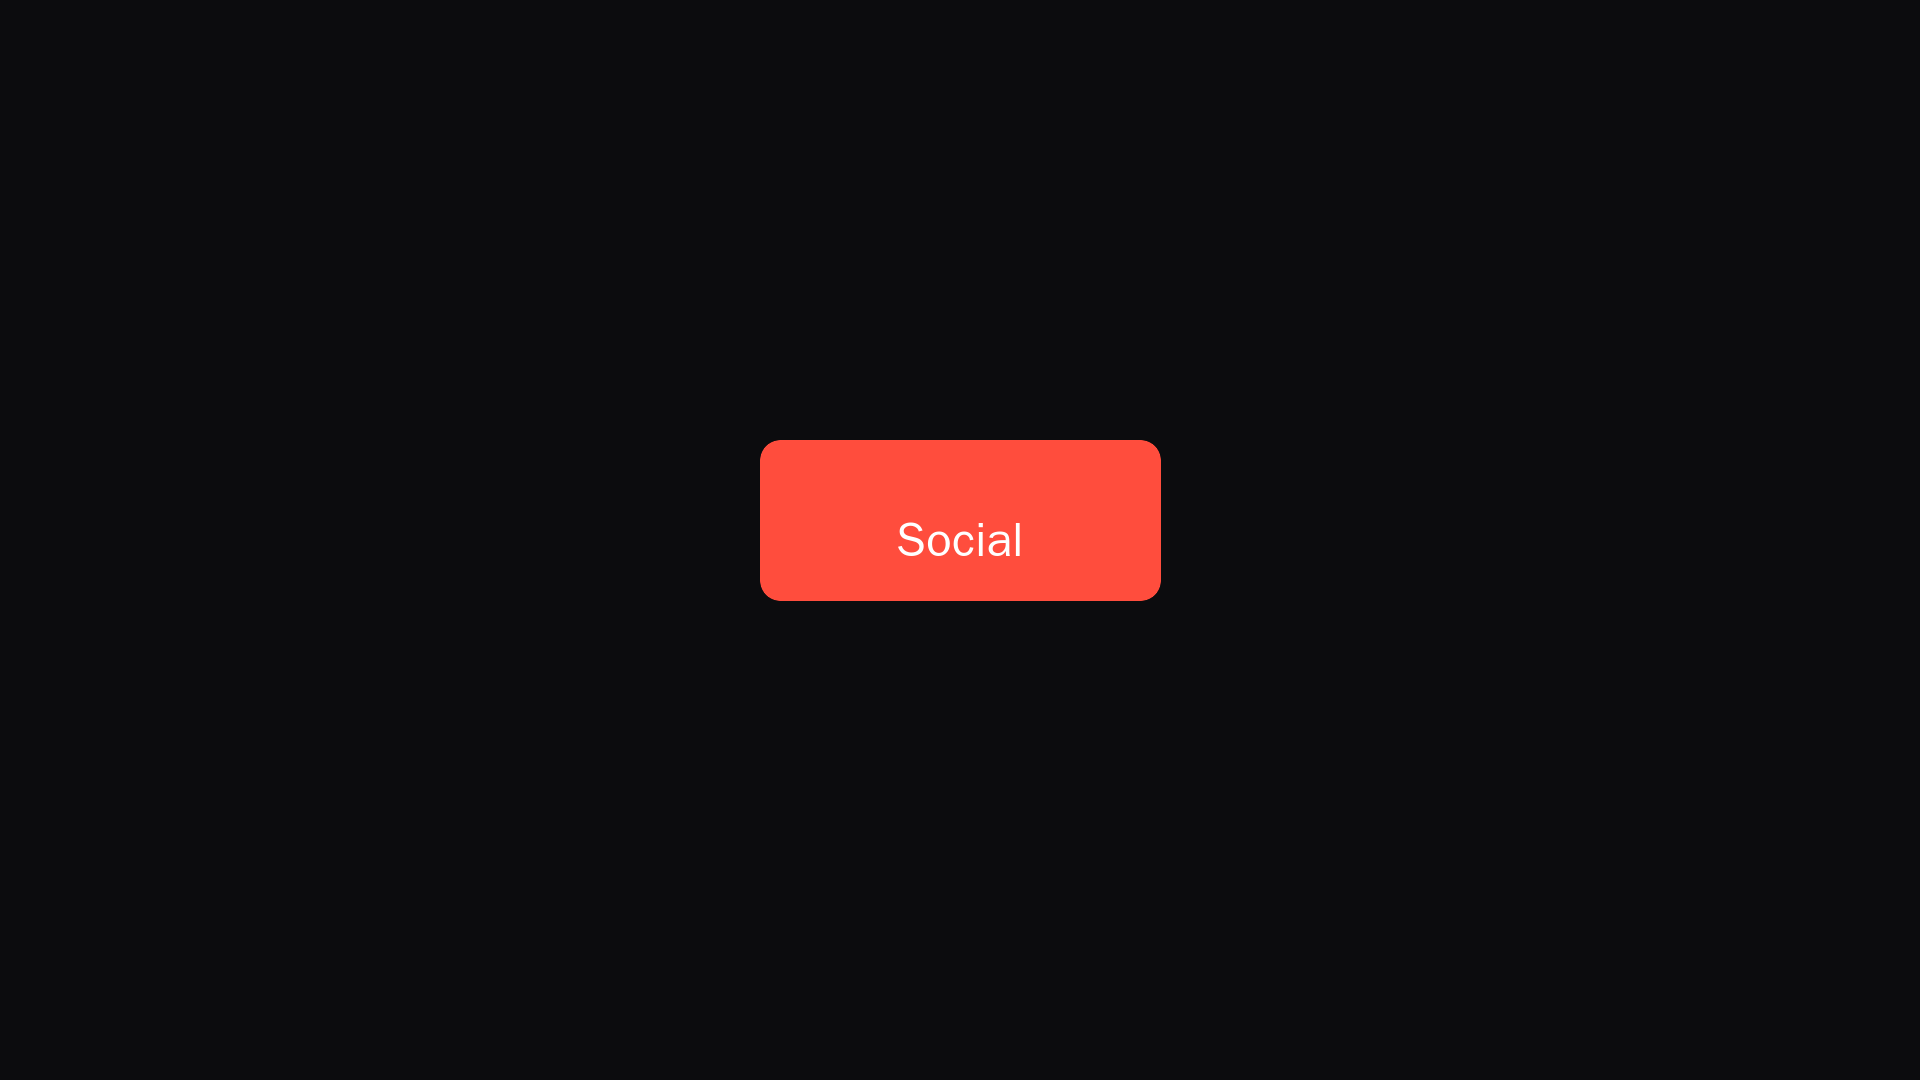
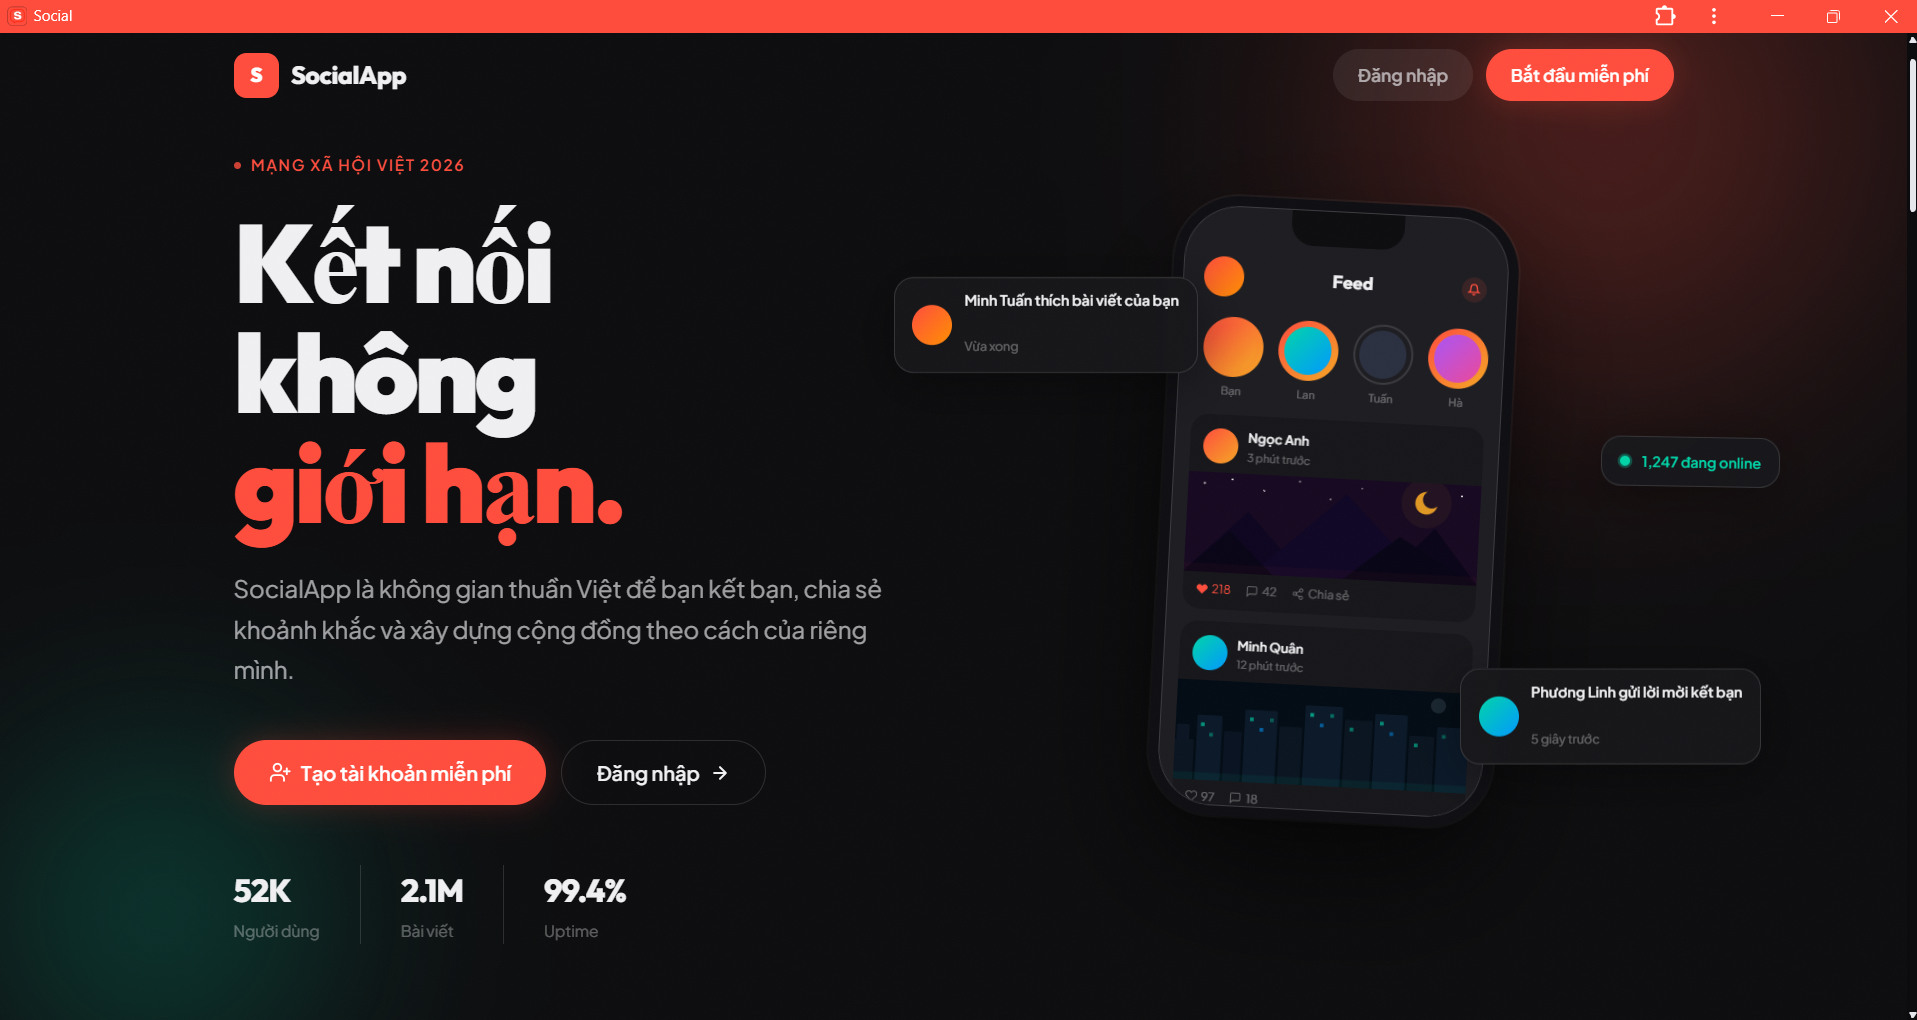
vũ không nói chuyện nghiêm túc là anh đăng hết thông tin lên mạng đấy vũ

diff --git a/src/app/shared/components/call-overlay/call-overlay.component.ts b/src/app/shared/components/call-overlay/call-overlay.component.ts
@@ -106,19 +106,22 @@ export class CallOverlayComponent implements OnInit, OnDestroy {
       }
     });
 
-    effect(() => {
-      const state = this.webRtcService.callState();
+    effect(
+      () => {
+        const state = this.webRtcService.callState();
 
-      if (state === 'connected') {
-        if (!this.durationInterval) {
+        if (state === 'connected') {
+          if (!this.durationInterval) {
+            this.callDuration.set(0);
+            this.startDurationTimer();
+          }
+        } else {
+          this.stopDurationTimer();
           this.callDuration.set(0);
-          this.startDurationTimer();
         }
-      } else {
-        this.stopDurationTimer();
-        this.callDuration.set(0);
-      }
-    });
+      },
+      { allowSignalWrites: true }, 
+    );
 
     afterNextRender(() => {
       this.setupGsapContext();

diff --git a/src/app/app.component.ts b/src/app/app.component.ts
@@ -61,7 +61,8 @@ export class AppComponent {
         if (!incoming) return;
 
         const me = this.authService.currentUser();
-        if (incoming.callerId === me?.id) return;
+        if (!me?.id) return;
+        if (incoming.callerId === me.id) return;
 
         this.webRtcService.session.set({
           conversationId: incoming.conversationId,
@@ -75,11 +76,14 @@ export class AppComponent {
       },
       { allowSignalWrites: true },
     );
-    effect(() => {
-      const user = this.authService.currentUser();
-      if (user) {
-        this.chatHubService.startConnection();
-      }
-    });
+    effect(
+      () => {
+        const user = this.authService.currentUser();
+        if (user) {
+          this.chatHubService.startConnection();
+        }
+      },
+      { allowSignalWrites: true },
+    );
   }
 }

diff --git a/src/app/core/services/webrtc.service.ts b/src/app/core/services/webrtc.service.ts
@@ -153,6 +153,8 @@ export class WebRtcService implements OnDestroy {
 
   public async connectSignaling(conversationId: string): Promise<void> {
     const userId = this.authService.currentUser()?.id ?? '';
+    if (!userId)
+      throw new Error('User not authenticated — cannot connect signaling');
     const url = `${SIGNALING_URL}/ws/${conversationId}?userId=${userId}`;
 
     this.ws = new WebSocket(url);
